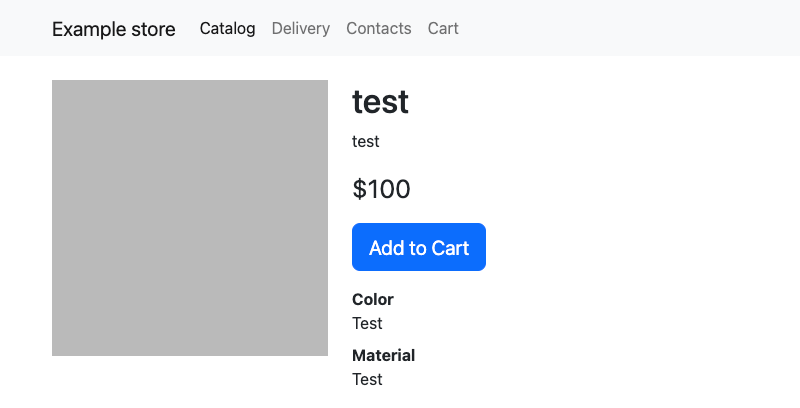
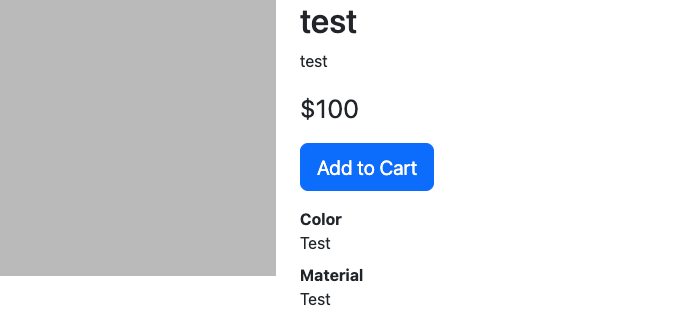
ШРИ-6: Пофиксил еще один тест

Changed region(s): [[0.0, 0.0, 0.6336, 0.9451]]

diff --git a/hermione-html-report/data.js b/hermione-html-report/data.js
@@ -1,2 +1,2 @@
-var data = {"skips":[],"config":{"defaultView":"all","diffMode":"3-up","baseHost":"","errorPatterns":[],"metaInfoBaseUrls":{},"customScripts":[],"yandexMetrika":{"counterNumber":null},"pluginsEnabled":false,"plugins":[]},"apiValues":{"extraItems":{},"metaInfoExtenders":{},"imagesSaver":{"saveImg":"async (srcCurrPath, {destPath, reportDir}) => {\n        await utils.copyFileAsync(srcCurrPath, destPath, reportDir);\n\n        return destPath;\n    }"},"reportsSaver":null},"date":"Sun Jul 02 2023 17:56:58 GMT+0300 (Москва, стандартное время)"};
+var data = {"skips":[],"config":{"defaultView":"all","diffMode":"3-up","baseHost":"","errorPatterns":[],"metaInfoBaseUrls":{},"customScripts":[],"yandexMetrika":{"counterNumber":null},"pluginsEnabled":false,"plugins":[]},"apiValues":{"extraItems":{},"metaInfoExtenders":{},"imagesSaver":{"saveImg":"async (srcCurrPath, {destPath, reportDir}) => {\n        await utils.copyFileAsync(srcCurrPath, destPath, reportDir);\n\n        return destPath;\n    }"},"reportsSaver":null},"date":"Sun Jul 02 2023 18:09:24 GMT+0300 (Москва, стандартное время)"};
 try { module.exports = data; } catch(e) {}

diff --git a/test/hermione/productCard.hermione.js b/test/hermione/productCard.hermione.js
@@ -27,9 +27,9 @@ describe('Карточка товара', async function() {
         const detailMock = await browser.mock(`http://localhost:3000/hw/store/api/products/${productInfo.id}`);
         detailMock.respond(product)
 
-        const element = await page.waitForSelector('[data-testid="link-product_detail"');
+        const element = await page.waitForSelector('[data-testid="link-product_detail"]');
         await element.click();
 
-        await browser.assertView('plain', 'body');
+        await browser.assertView('plain', '.Product');
     });
 });
